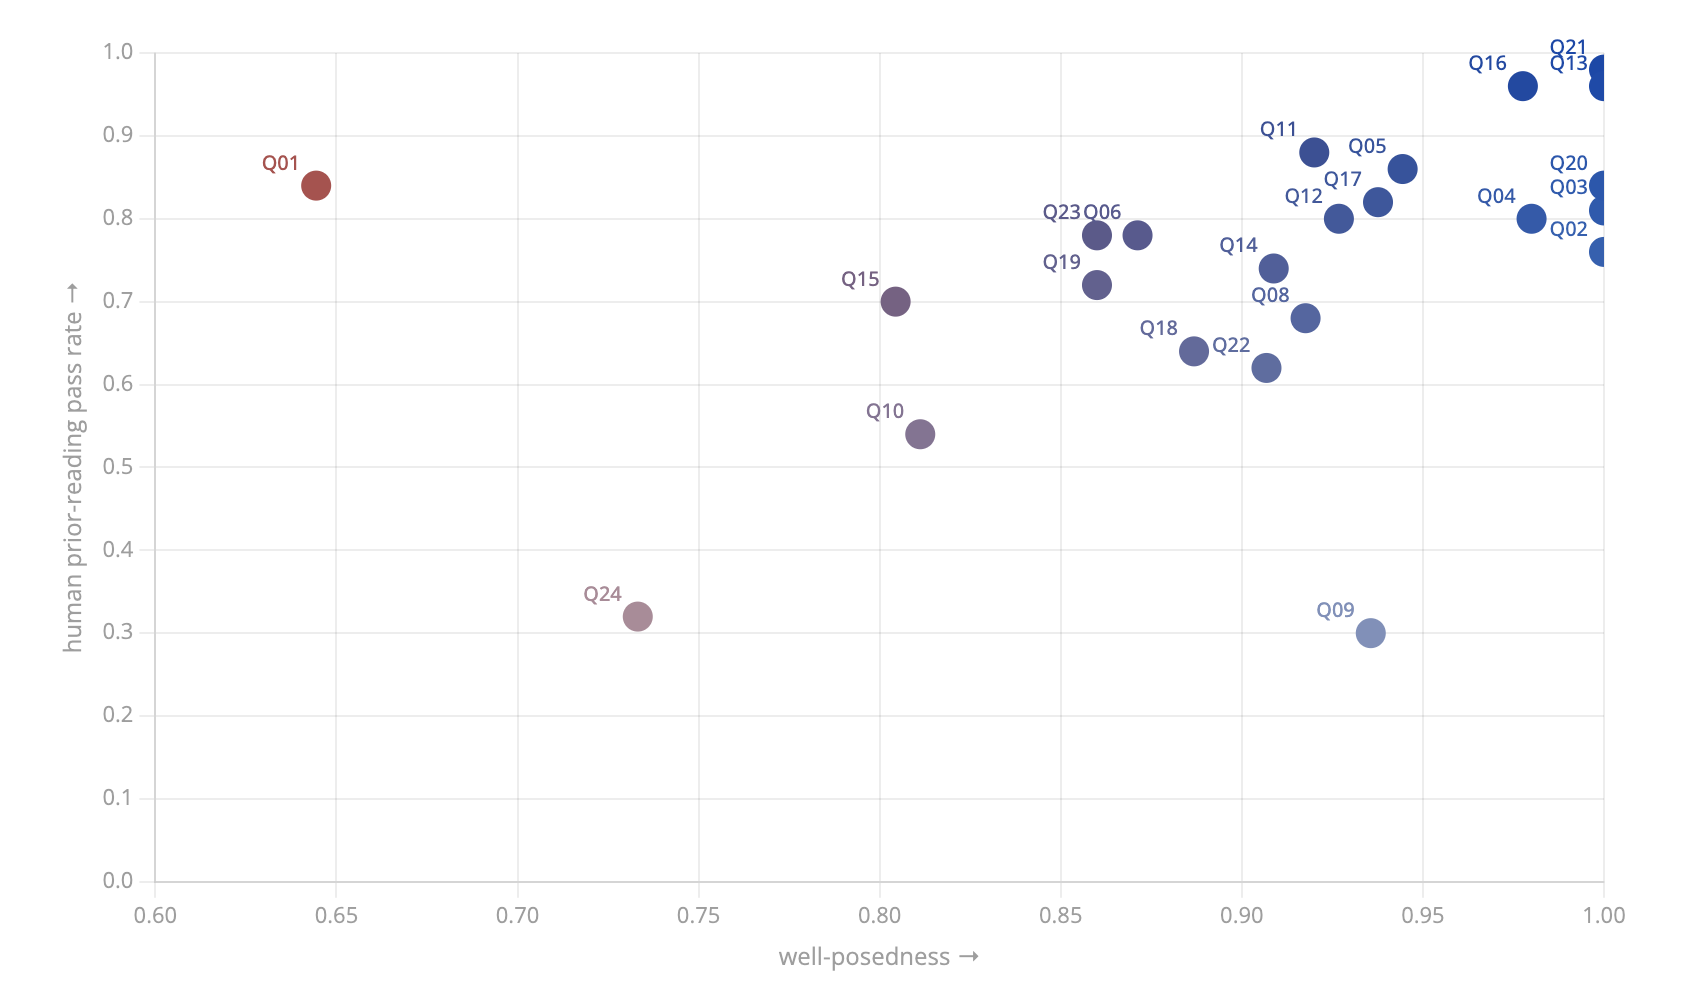
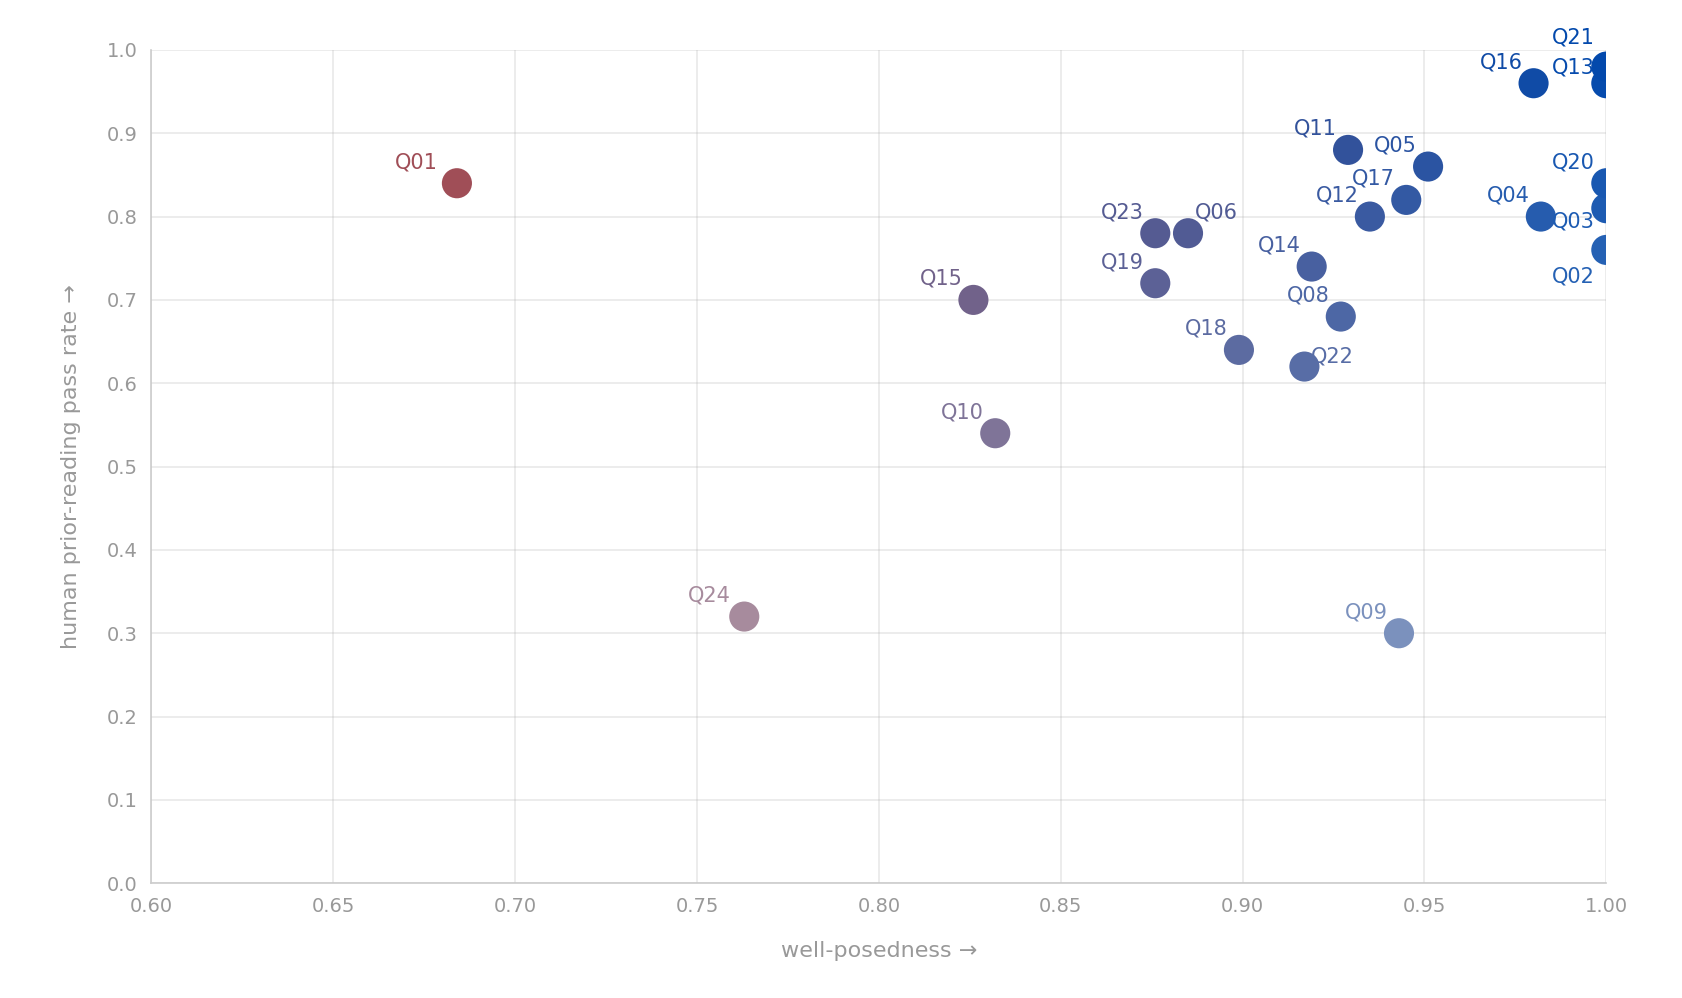
Correct well-posedness figure calculations

diff --git a/_posts/2026-06-18-what-LLM-can-and-cannot-find.md b/_posts/2026-06-18-what-LLM-can-and-cannot-find.md
@@ -51,29 +51,29 @@ These two instruments catch different failures, and neither alone is sufficient.
 <script>
 (function() {
 const raw = [
-  {qid:'Q01', av:0.0889, ci_lo:0.0611, ci_hi:0.1167, L2:0.84, pct:0.58, q:"What specific AI tools does this participant mention using in their work?"},
-  {qid:'Q24', av:0.0667, ci_lo:0.0456, ci_hi:0.0883, L2:0.32, pct:0.42, q:"What does this participant describe about how they prefer to communicate with AI (e.g., chat vs structured prompts vs voice)?"},
-  {qid:'Q15', av:0.0489, ci_lo:0.0283, ci_hi:0.0722, L2:0.70, pct:0.78, q:"What tasks or responsibilities, if any, does this participant explicitly say should be done by humans rather than AI, regardless of whether AI is capable of doing them?"},
-  {qid:'Q10', av:0.0472, ci_lo:0.0278, ci_hi:0.0683, L2:0.54, pct:0.77, q:"Does this participant describe being frustrated by AI tools, and if so, in what context?"},
-  {qid:'Q23', av:0.035,  ci_lo:0.0183, ci_hi:0.0528, L2:0.78, pct:0.31, q:"After AI generates an output, how does this participant pass it into a non-AI tool, document, or system to continue their workflow?"},
-  {qid:'Q19', av:0.035,  ci_lo:0.0172, ci_hi:0.0533, L2:0.72, pct:0.54, q:"What AI capabilities does this participant wish existed but don't yet?"},
-  {qid:'Q06', av:0.0322, ci_lo:0.0178, ci_hi:0.0478, L2:0.78, pct:0.67, q:"What specific action, if any, does this participant take to check that AI's output is correct or trustworthy before using it?"},
-  {qid:'Q18', av:0.0283, ci_lo:0.0122, ci_hi:0.0472, L2:0.64, pct:0.44, q:"Does this participant raise broader societal, economic, or ethical concerns about generative AI?"},
-  {qid:'Q22', av:0.0233, ci_lo:0.0094, ci_hi:0.0406, L2:0.62, pct:0.84, q:"What does this participant do, if anything, in follow-up prompts to AI to refine the output toward what they need?"},
-  {qid:'Q14', av:0.0228, ci_lo:0.0078, ci_hi:0.04,   L2:0.74, pct:0.71, q:"Does this participant express concern about AI displacing their job or profession?"},
-  {qid:'Q08', av:0.0206, ci_lo:0.0072, ci_hi:0.0378, L2:0.68, pct:0.93, q:"What positive emotions or sources of satisfaction does this participant express about working with AI?"},
-  {qid:'Q11', av:0.02,   ci_lo:0.0078, ci_hi:0.0344, L2:0.88, pct:0.68, q:"How does this participant describe their colleagues' or workplace's attitudes toward AI use?"},
-  {qid:'Q12', av:0.0183, ci_lo:0.005,  ci_hi:0.035,  L2:0.80, pct:0.15, q:"Does this participant describe encountering social stigma, judgment, or perceived 'laziness' around using AI at work?"},
-  {qid:'Q09', av:0.0161, ci_lo:0.0039, ci_hi:0.0306, L2:0.30, pct:0.84, q:"What concerns does this participant raise about how AI performs on their work tasks — its accuracy, reliability, or the quality of its output?"},
-  {qid:'Q17', av:0.0156, ci_lo:0.0043, ci_hi:0.03,   L2:0.82, pct:0.87, q:"How does this participant envision their personal use of AI evolving in the next few years?"},
-  {qid:'Q05', av:0.0139, ci_lo:0.0044, ci_hi:0.0261, L2:0.86, pct:0.59, q:"Has this participant encountered AI making factual errors, hallucinating, or producing incorrect output? If so, in what context?"},
-  {qid:'Q16', av:0.0056, ci_lo:0.0,    ci_hi:0.0167, L2:0.96, pct:0.25, q:"Has this participant considered shifting their role toward managing or overseeing AI systems?"},
-  {qid:'Q04', av:0.005,  ci_lo:0.0,    ci_hi:0.015,  L2:0.80, pct:0.99, q:"Are there tasks this participant prefers to keep doing themselves rather than delegate to AI? If so, which?"},
-  {qid:'Q21', av:0.0,    ci_lo:0.0,    ci_hi:0.0,    L2:0.98, pct:1.0,  q:"What is this participant's occupation or job role?"},
-  {qid:'Q03', av:0.0,    ci_lo:0.0,    ci_hi:0.0,    L2:0.81, pct:1.0,  q:"Does this participant describe using AI to augment their own work, or to automate/delegate tasks entirely?"},
-  {qid:'Q20', av:0.0,    ci_lo:0.0,    ci_hi:0.0,    L2:0.84, pct:1.0,  q:"What is this participant's overall stance toward AI in their work — enthusiastic, cautious, conflicted, resistant, or other?"},
-  {qid:'Q02', av:0.0,    ci_lo:0.0,    ci_hi:0.0,    L2:0.76, pct:1.0,  q:"What kinds of work tasks does this participant use AI for?"},
-  {qid:'Q13', av:0.0,    ci_lo:0.0,    ci_hi:0.0,    L2:0.96, pct:0.14, q:"What concerns, if any, does this participant raise about privacy, data security, or sharing confidential information with AI?"},
+  {qid:'Q01', av:0.0790, ci_lo:0.0548, ci_hi:0.1037, L2:0.84, pct:0.58, q:"What specific AI tools does this participant mention using in their work?"},
+  {qid:'Q24', av:0.0593, ci_lo:0.0405, ci_hi:0.0790, L2:0.32, pct:0.42, q:"What does this participant describe about how they prefer to communicate with AI (e.g., chat vs structured prompts vs voice)?"},
+  {qid:'Q15', av:0.0435, ci_lo:0.0247, ci_hi:0.0642, L2:0.70, pct:0.78, q:"What tasks or responsibilities, if any, does this participant explicitly say should be done by humans rather than AI, regardless of whether AI is capable of doing them?"},
+  {qid:'Q10', av:0.0420, ci_lo:0.0232, ci_hi:0.0627, L2:0.54, pct:0.77, q:"Does this participant describe being frustrated by AI tools, and if so, in what context?"},
+  {qid:'Q19', av:0.0311, ci_lo:0.0153, ci_hi:0.0479, L2:0.72, pct:0.54, q:"What AI capabilities does this participant wish existed but don't yet?"},
+  {qid:'Q23', av:0.0311, ci_lo:0.0163, ci_hi:0.0469, L2:0.78, pct:0.31, q:"After AI generates an output, how does this participant pass it into a non-AI tool, document, or system to continue their workflow?"},
+  {qid:'Q06', av:0.0286, ci_lo:0.0158, ci_hi:0.0425, L2:0.78, pct:0.67, q:"What specific action, if any, does this participant take to check that AI's output is correct or trustworthy before using it?"},
+  {qid:'Q18', av:0.0252, ci_lo:0.0109, ci_hi:0.0425, L2:0.64, pct:0.44, q:"Does this participant raise broader societal, economic, or ethical concerns about generative AI?"},
+  {qid:'Q22', av:0.0207, ci_lo:0.0084, ci_hi:0.0356, L2:0.62, pct:0.84, q:"What does this participant do, if anything, in follow-up prompts to AI to refine the output toward what they need?"},
+  {qid:'Q14', av:0.0202, ci_lo:0.0069, ci_hi:0.0351, L2:0.74, pct:0.71, q:"Does this participant express concern about AI displacing their job or profession?"},
+  {qid:'Q08', av:0.0183, ci_lo:0.0064, ci_hi:0.0326, L2:0.68, pct:0.93, q:"What positive emotions or sources of satisfaction does this participant express about working with AI?"},
+  {qid:'Q11', av:0.0178, ci_lo:0.0069, ci_hi:0.0311, L2:0.88, pct:0.68, q:"How does this participant describe their colleagues' or workplace's attitudes toward AI use?"},
+  {qid:'Q12', av:0.0163, ci_lo:0.0044, ci_hi:0.0306, L2:0.80, pct:0.15, q:"Does this participant describe encountering social stigma, judgment, or perceived 'laziness' around using AI at work?"},
+  {qid:'Q09', av:0.0143, ci_lo:0.0035, ci_hi:0.0277, L2:0.30, pct:0.84, q:"What concerns does this participant raise about how AI performs on their work tasks — its accuracy, reliability, or the quality of its output?"},
+  {qid:'Q17', av:0.0138, ci_lo:0.0040, ci_hi:0.0267, L2:0.82, pct:0.87, q:"How does this participant envision their personal use of AI evolving in the next few years?"},
+  {qid:'Q05', av:0.0123, ci_lo:0.0040, ci_hi:0.0227, L2:0.86, pct:0.59, q:"Has this participant encountered AI making factual errors, hallucinating, or producing incorrect output? If so, in what context?"},
+  {qid:'Q16', av:0.0049, ci_lo:0.0000, ci_hi:0.0148, L2:0.96, pct:0.25, q:"Has this participant considered shifting their role toward managing or overseeing AI systems?"},
+  {qid:'Q04', av:0.0044, ci_lo:0.0000, ci_hi:0.0133, L2:0.80, pct:0.99, q:"Are there tasks this participant prefers to keep doing themselves rather than delegate to AI? If so, which?"},
+  {qid:'Q02', av:0.0000, ci_lo:0.0000, ci_hi:0.0000, L2:0.76, pct:1.00, q:"What kinds of work tasks does this participant use AI for?"},
+  {qid:'Q03', av:0.0000, ci_lo:0.0000, ci_hi:0.0000, L2:0.81, pct:1.00, q:"Does this participant describe using AI to augment their own work, or to automate/delegate tasks entirely?"},
+  {qid:'Q13', av:0.0000, ci_lo:0.0000, ci_hi:0.0000, L2:0.96, pct:0.14, q:"What concerns, if any, does this participant raise about privacy, data security, or sharing confidential information with AI?"},
+  {qid:'Q20', av:0.0000, ci_lo:0.0000, ci_hi:0.0000, L2:0.84, pct:1.00, q:"What is this participant's overall stance toward AI in their work — enthusiastic, cautious, conflicted, resistant, or other?"},
+  {qid:'Q21', av:0.0000, ci_lo:0.0000, ci_hi:0.0000, L2:0.98, pct:1.00, q:"What is this participant's occupation or job role?"},
 ];
 
 const X_MIN = 0.6, X_MAX = 1.0;
@@ -287,4 +287,4 @@ Here, $N = 50$ participants and $r = 9$ times. The denominator 0.25 is the theor
 
 **The raw (uncorrected) variance is used for normalization.** An unbiased variance estimator would multiply by $\frac{r}{r-1}$, but individual values can then exceed 0.25, breaking the $[0, 1]$ bound. Since the formula is used for interpretation rather than variance estimation, the raw mean is the right choice. The two versions differ by less than 12% in practice and do not change the ranking.
 
-**Use Figure 1 for direction, not precision.** Each dot represents a question's mean well-posedness score, and hovering reveals a 90% confidence interval derived from a bootstrap over the 50 interview transcripts. For many questions in the middle of the range, those intervals overlap. Q01 sits clearly at the left (0.64) and a handful of questions sit clearly at the right (1.0), but the questions in between are harder to rank with confidence. Narrowing the confidence intervals would require a larger sample, which is beyond the scope of this post. The figure is a guide to broad groupings, not a precise scorecard.
+**Use Figure 1 for direction, not precision.** Each dot represents a question's mean well-posedness score, and hovering reveals a 90% confidence interval derived from a bootstrap over the 50 interview transcripts. For many questions in the middle of the range, those intervals overlap. Q01 sits clearly at the left (0.68) and a handful of questions sit clearly at the right (1.0), but the questions in between are harder to rank with confidence. Narrowing the confidence intervals would require a larger sample, which is beyond the scope of this post. The figure is a guide to broad groupings, not a precise scorecard.
